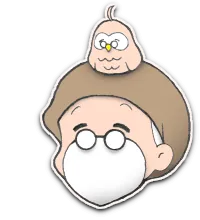
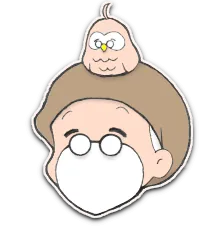
OK左右の変更

Changed region(s): [[0.12, 0.0, 0.99, 0.9818]]

diff --git a/index.html b/index.html
@@ -424,9 +424,9 @@
 
         <div class="🥸">
             <div class="キャラ画像 身体_縦伸" style="--被り幅: 20px;">
-                <img src="cha/dt_ok-hidari.webp">
-                <img src="cha/dt_ok-hidari_hikari.webp" alt="⚡" class="動作 発射→拍動">
-                <img src="cha/dt_ok-hidari_ude.webp"    alt="💪" class="動作 微動">
+                <img src="cha/dt_ok-migi.webp">
+                <img src="cha/dt_ok-migi_hikari.webp" alt="⚡" class="動作 発射→拍動">
+                <img src="cha/dt_ok-migi_ude.webp"    alt="💪" class="動作 微動">
             </div>
             <div class="💬">
                 いや失敬失敬ww<br>
@@ -610,9 +610,9 @@
 
         <div class="🥸">
             <div class="キャラ画像 身体_縦伸" style="--被り幅: 20px;">
-                <img src="cha/dt_ok-migi.webp">
-                <img src="cha/dt_ok-migi_hikari.webp" alt="⚡" class="動作 発射→拍動">
-                <img src="cha/dt_ok-migi_ude.webp"    alt="💪" class="動作 微動">
+                <img src="cha/dt_ok-hidari.webp">
+                <img src="cha/dt_ok-hidari_hikari.webp" alt="⚡" class="動作 発射→拍動">
+                <img src="cha/dt_ok-hidari_ude.webp"    alt="💪" class="動作 微動">
             </div>
             <div class="💬" style="--右尻尾: 20px;">
                 キタコレww<br>

diff --git a/main.css b/main.css
@@ -248,7 +248,7 @@
 }
 .ト書き上 {
     margin:    -45px -20px  25px;
-    animation: 出現 0.5s calc(1s / var(--アニメ速度, 1)) linear forwards;
+    animation: 出現 0.5s 1s linear forwards;
 }
 .ト書き下 {
     margin:     25px -60px -45px;
